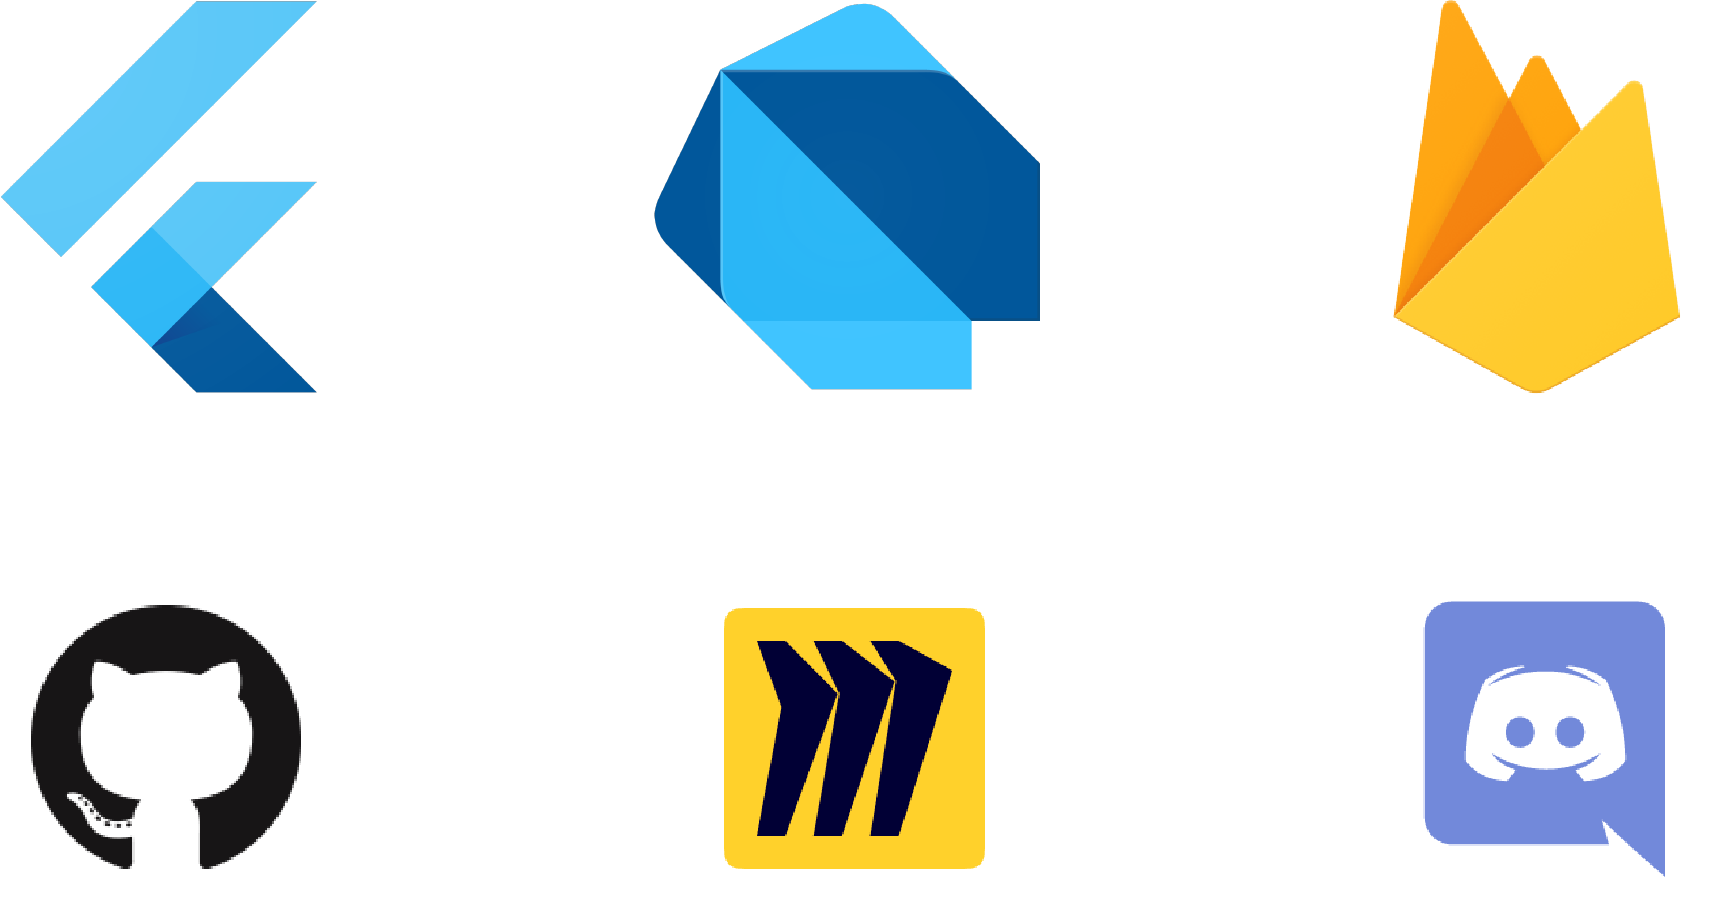
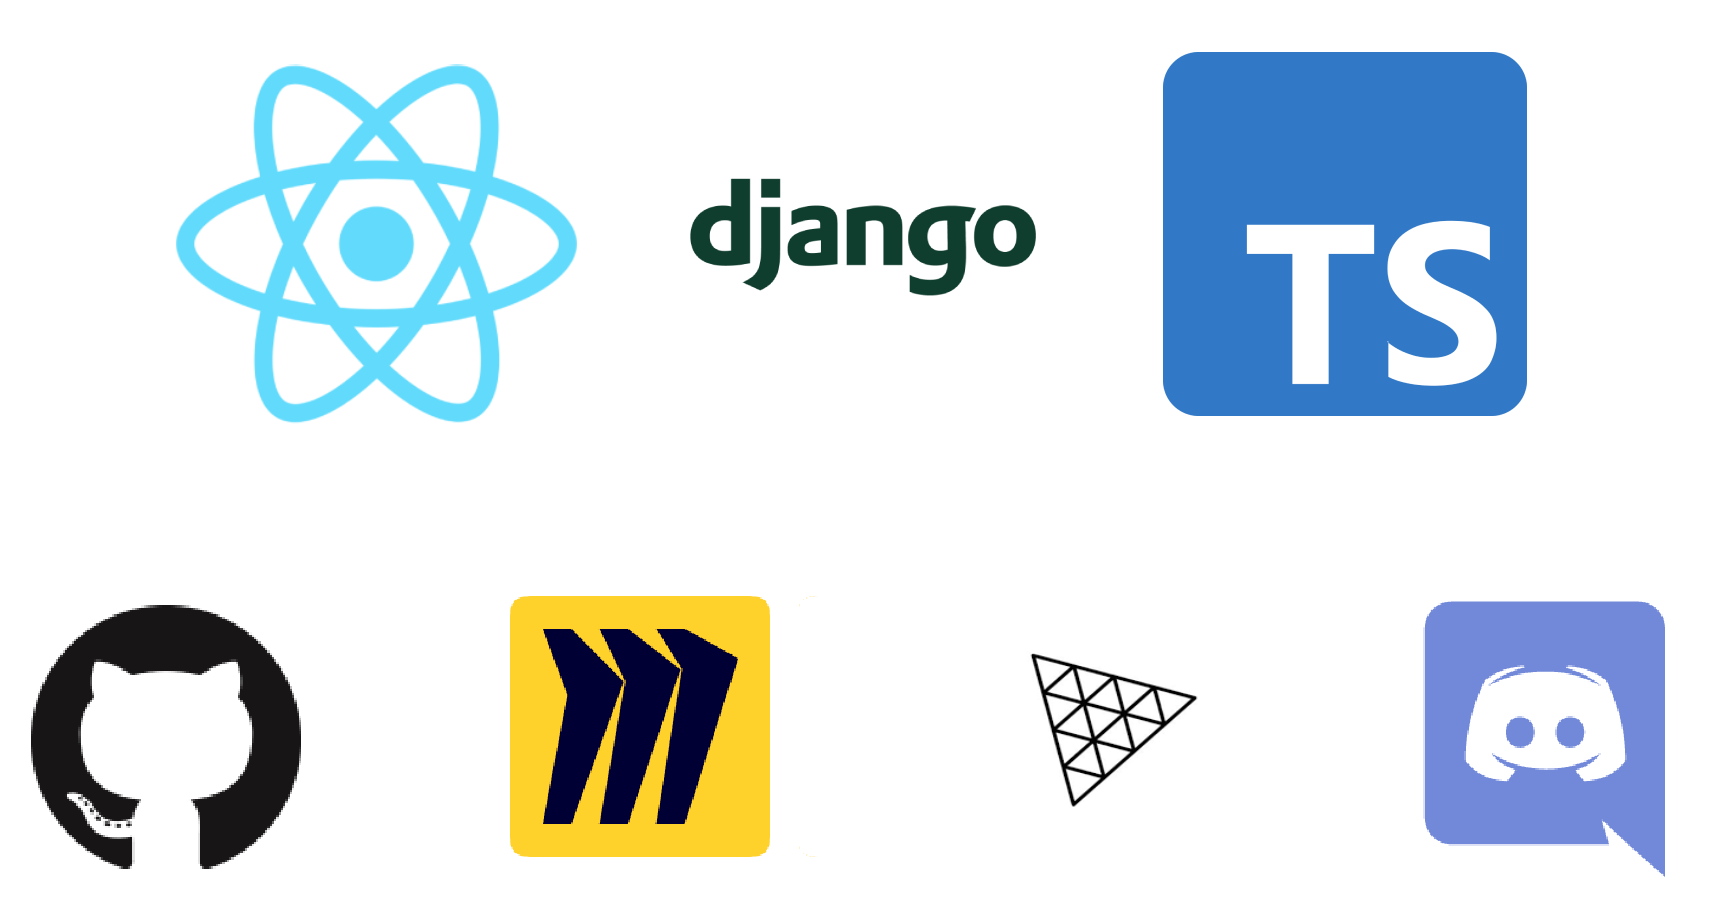
our goals

diff --git a/content/ss21/master/M3-find-it/tech-stack.md b/content/ss21/master/M3-find-it/tech-stack.md
@@ -15,18 +15,19 @@ We chose React for the frontend because it is very lightweight and allows contro
 
 
 #### ThreeJS
-We wanted to visualize playful elements in our app. However, we found that few technologies exist that fit our vision. ThreeJS 
+We wanted to visualise playful elements in our app. There were quite a few libraries to choose from, but Three.js https://threejs.org/ and Babylon.js https://www.babylonjs.com/ made it to the final shortlist. Based on an article https://javascript.plainenglish.io/webgl-frameworks-three-js-vs-babylon-js-36975d915694 comparing both technologies, we finally decided to use three.js. Why three.js? It has a well written documentation with lots of examples to play with, detailed tutorials and an active community.  In combination with ReactJS, we used react-three-fiber, which is an react renderer. With the help of react-three-fiber, we can build our scenes declaratively with re-usable, self-contained components that react to state, are readily interactive and can tap into React's ecosystem.
+We also used Cinema4D, an 3D animation, modelling, simulation and rendering software to create our 3D models.
 
 {{</section>}}
 
 {{<section title="Development Tools">}}
 #### Gitlab/Git
-We decided to use GitHub as our hosting platform for version control and figured out a **useful and collaborative workflow** after a while.
+We chose Gitlab because we didn't want to focus on just deploying code, we wanted to do that directly with individual sprint tickets. Gitlab has built in functionality that allows a user to create boards. This allowed us to optimize our scurm workflow. Furthermore, it is possible to assign a ticket to specific branches or commits. In addition, our communication and code reviews also took place via the platform.  
 
 #### Miro
-We used Miro as an altered form of an agile Kanban board for **visualizing our ideas, suggestions, and useful links**.
-By using pins, we created a visual overview of the tasks that are currently worked on and prioritized each one to know what to do next
+Miro has been a good tool in many ways:
+ We've been able to brainstorm on the platform, discuss different ideas, and generally encourage more creative interaction. In addition, we were able to conceptualize our ideas prototypically, always had an up-to-date overview of the project's progress, and were thus able to react dynamically to problems. This approach is very similar to agile methods. 
 
 #### Discord/Zoom
-**Discord** was mainly our **communication platform** for team meetings and quick interactions during the project semester. Additionally, we used **Zoom** for **meetings** with our **supervisor**.
+Discord offers through its channel system a good structure to react quickly and targeted to issues. In terms of communication, it offers advantages in that each participant can provide his or her screen, which is unfortunately not the case with other software solutions. This feature alone helps immensely when debugging together and increases our awareness of cooperative work.  
 {{</section>}}

diff --git a/content/ss21/master/M3-find-it/_index.md b/content/ss21/master/M3-find-it/_index.md
@@ -21,7 +21,10 @@ supervisor = "Marco A., David K."
 <!-- TODO: Add Image
 {{<image src="headerindex.png" alt="Mockup" >}} -->
 {{<section title="Our Goals">}}
-Lorem ipsum dolor sit amet, consetetur sadipscing elitr, sed diam nonumy eirmod tempor invidunt ut labore et dolore magna aliquyam erat, sed diam voluptua. At vero eos et accusam et justo duo dolores et ea rebum. Stet clita kasd gubergren, no sea takimata sanctus est Lorem ipsum dolor sit amet. Lorem ipsum dolor sit amet, consetetur sadipscing elitr, sed diam nonumy eirmod tempor invidunt ut labore et dolore magna aliquyam erat, sed diam voluptua. At vero eos et accusam et justo duo dolores et ea rebum. Stet clita kasd gubergren, no sea takimata sanctus est Lorem ipsum dolor sit amet.
+Various software solutions exist on the market that aim to provide an assessment of the user for certain jobs. An example would be https://www.arbeitsagentur.de/bildung/ausbildung/welche-berufe-passen. These solutions have as a subject the analysis of people (personal anlytics) in order to predict economic, orientation-bound decisions or to give advice. Unfortunately, these solutions are usually not very well elaborated in that they use a flawed system as a basis. Most of these systems use questionnaires that statically go through a certain decision tree depending on the user's choice. In the example of the employment agency, if a selection is made beforehand, several professions are categorically excluded that could presumably reflect the user's profile picture. For example, if one indicates that one likes to work outdoors, one is categorized as a gardener and the other professions are excluded. We wanted to optimize this behavior with our system.
+We aimed to create an AI that could respond transparently, comprehensibly, and dynamically to user responses. It should provide informed results to the user without being subject to the accusation of algorithm racism, which is partly true with machine learning models. We want to clearly explain to the user how the results on job recommendations are arrived at and in which areas they have achieved which score. Furthermore, answers should not only be of high value to a specific profession, but also have more or less influence on other professions. 
+We also aim to make everything visually appealing to meet the requirements of gamification. For this, 3D models are created and an appealing UI/UX design is assumed, which should take the user by the hand.
+
 {{</section>}}
 
 <!-- {{<quote source="https://developer.mozilla.org/en-US/docs/Web/HTML/Element/blockquote" caption="me">}}
